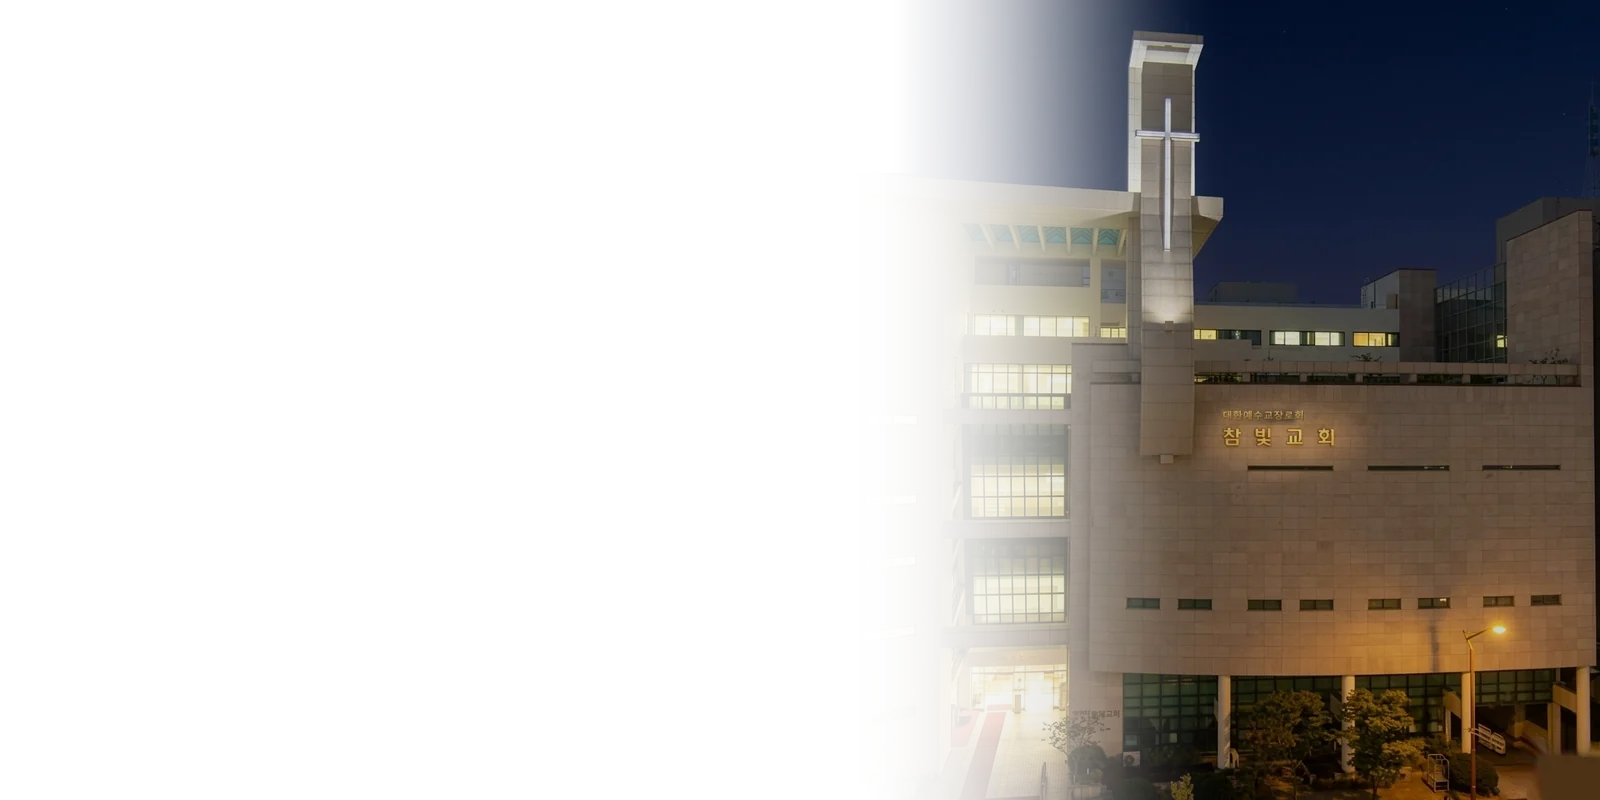
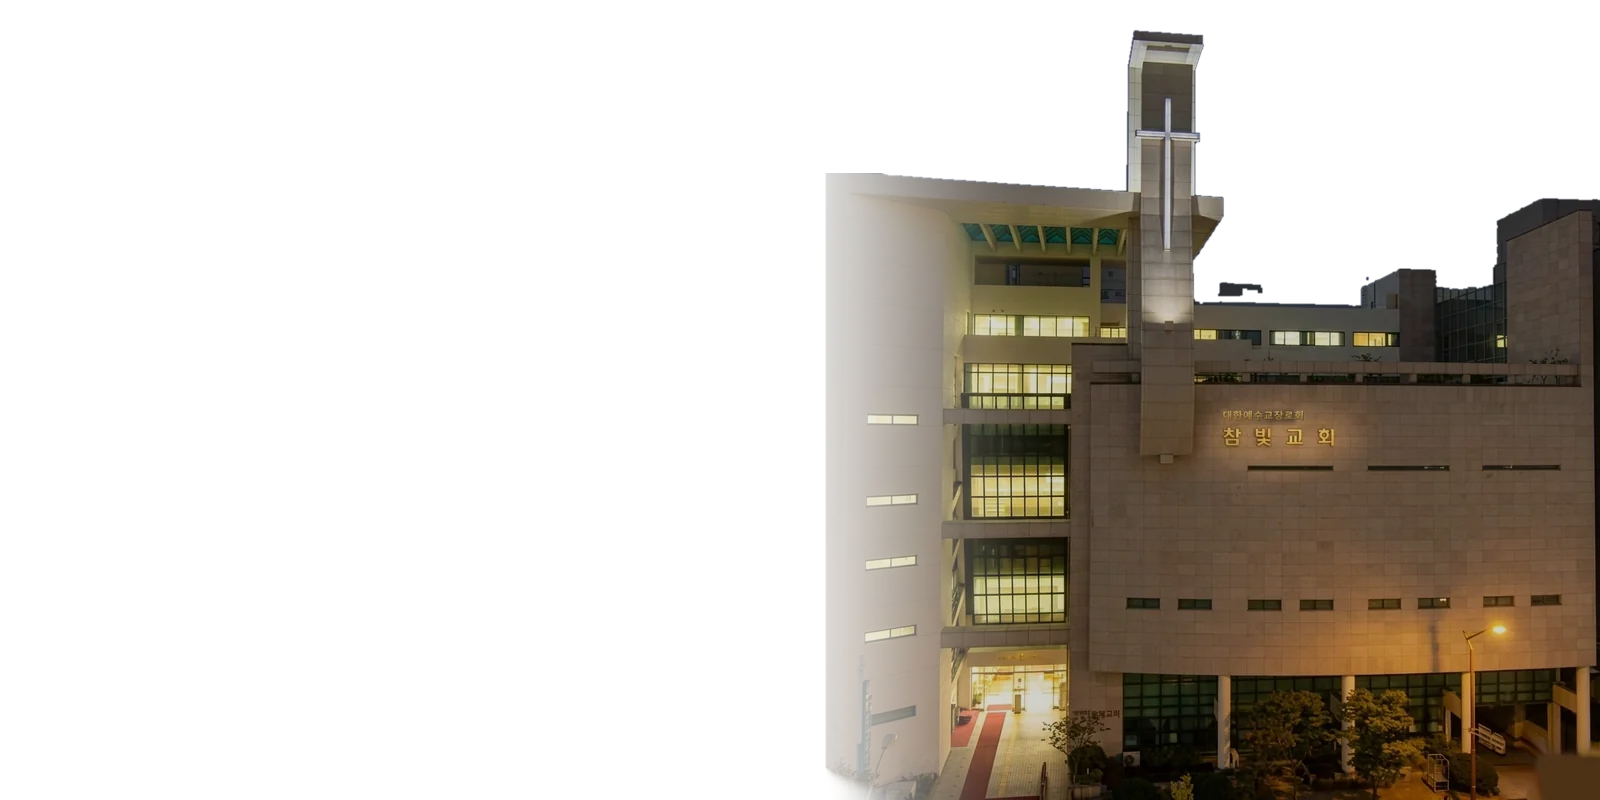
진짜마지막

Changed region(s): [[0.5, 0.0, 1.0, 1.0]]

diff --git a/frontend/src/pages/Visit/Visit.css b/frontend/src/pages/Visit/Visit.css
@@ -80,8 +80,9 @@
   --hero-cta-bg-hover: rgba(255, 255, 255, 0.9);
   --hero-cta-border: rgba(49, 130, 246, 0.55);
   position: relative;
-  aspect-ratio: 20 / 23;
-  min-height: 330px;
+  /* 모바일 높이 — 20:23 은 너무 높다는 피드백(2026-09-03) → 20:19. 글자 블록(~170px) + 건물이 십자가부터 온전히 */
+  aspect-ratio: 20 / 19;
+  min-height: 320px;
   padding: 26px 22px 22px;
   display: flex;
   flex-direction: column;
@@ -161,14 +162,15 @@
   display: block;
 }
 
-/* 교회 사진 — 모바일은 무대 아래 2/3 에 오른쪽·아래 기준으로 앉히고, 위쪽은 짧게 녹여 배경과 잇는다
-   (사진 하늘이 불투명한 오른쪽 위에서 배경과 만나는 가로선을 지운다) */
+/* 교회 사진 — 자산은 하늘까지 떼어낸 건물 컷아웃(RGBA)이라 배경과 만나는 가로선이 없다.
+   모바일: 무대 아래 61% 높이에 앉혀 십자가 꼭대기가 글자 블록 바로 아래서 시작. 왼쪽 빈 하늘만 살짝 잘라내
+   (object-position 82%) 왼쪽 동이 카드 안쪽으로 더 들어온다 */
 .visit-hero-photo {
   position: absolute;
   left: 0;
   right: 0;
   bottom: 0;
-  top: 33%;
+  height: 61%;
   pointer-events: none;
 }
 .visit-hero-img {
@@ -176,10 +178,7 @@
   width: 100%;
   height: 100%;
   object-fit: cover;
-  object-position: right bottom;
-  /* 세로 마스크는 짧게 — 길면 십자가 탑 꼭대기가 지워진다 */
-  -webkit-mask-image: linear-gradient(to bottom, transparent 0, #000 13%);
-  mask-image: linear-gradient(to bottom, transparent 0, #000 13%);
+  object-position: 82% bottom;
 }
 
 /* 글자 — 무대 왼쪽, 위에서부터(모바일) / 세로 중앙(lg) */
@@ -1219,14 +1218,12 @@
     justify-content: center;
   }
 
-  /* 사진은 무대 전체(자산도 2:1) — 세로 마스크 없이 알파 램프만으로 배경에서 스며 나온다 */
+  /* 사진은 무대 전체(자산도 2:1) — 알파 램프만으로 배경에서 스며 나온다 */
   .visit-hero-photo {
-    top: 0;
+    height: 100%;
   }
   .visit-hero-img {
     object-position: right center;
-    -webkit-mask-image: none;
-    mask-image: none;
   }
 
   .visit-hero-branch {

diff --git a/frontend/scripts/build_visit_hero.py b/frontend/scripts/build_visit_hero.py
@@ -39,9 +39,10 @@ W, H = 1600, 800
 # 자산은 RGBA: 교회만 불투명, 왼쪽 동 벽에서 FADE 폭만큼 알파가 0→1 로 오르고 그 왼쪽은 완전 투명.
 # 배경(남색/하늘 그라데이션·글로우·링)은 전부 CSS(Visit.css .visit-hero-stage)가 그린다 →
 # 사진 하늘을 합성해 붙이던 v2 의 '색 안 맞는 이음새' 문제가 구조적으로 사라진다.
-FADE = (-20, 400)              # 알파 램프 시작/끝(교회 왼쪽 모서리 기준 px). 십자가 탑(x0+305~375)까지 걸쳐 길게 —
-                               # 짧으면(v3 초판 250px) '반반으로 잘린' 경계로 읽힌다는 피드백(2026-09-03)
-FADE_GAMMA = 1.8               # 램프 곡선: 왼쪽 끝은 거의 투명하게 오래 머물다 오른쪽으로 갈수록 점점 또렷하게
+FADE = (-100, 240)             # 알파 램프 시작/끝(교회 왼쪽 모서리 기준 px). 왼쪽 동(가는 창 있는 흰 벽면)이
+                               # 왼쪽 끝 ~0.2 에서 시작해 동 절반쯤(120px)에 0.7, 탑 전에 1 — 벽면·창이 또렷히 읽혀야 한다
+                               # (2026-09-03: 하늘을 컷아웃한 뒤로는 램프가 짧아도 '반반 띠'가 안 생긴다. 예전 띠는 하늘 페이드 탓)
+FADE_GAMMA = 1.0               # 램프 곡선(1=smoothstep 그대로)
 NIGHT_DIM = 0.82               # 밤 사진은 살짝 눌러 남색 배경에 앉힌다(불 켜진 창의 대비는 유지)
 BRANCH_BOX = (0, 0, 880, 480)  # 나뭇가지 실루엣 별도 레이어(branch-night.webp) 크롭 — 카드 왼쪽 위에 CSS 로 얹는다
 WING_X = 8                     # 왼쪽 동 벽의 실제 모서리(원본 x). 그 왼쪽은 이웃 건물
@@ -87,6 +88,32 @@ def remove_objects(im, polys):
     dst = np.zeros_like(bgr)
     cv2.xphoto.inpaint(bgr, keep, dst, cv2.xphoto.INPAINT_FSR_BEST)
     return Image.fromarray(cv2.cvtColor(dst, cv2.COLOR_BGR2RGB))
+
+
+def sky_mask(im, key):
+    """사진에서 '하늘'(위쪽 테두리에 이어진 파란/흰 구름 또는 밤 남색 영역) 마스크(0~1).
+    색 규칙으로 후보를 뽑고, 위쪽 테두리에 연결된 성분만 남긴다(창문 유리·캐노피처럼 건물 안에 갇힌 파랑은 제외).
+    2026-09-03: 사진 하늘을 남기면 CSS 배경과 만나는 가로선이 생겨 부자연스럽다는 피드백 → 건물만 남긴다."""
+    a = np.asarray(im).astype(np.int32)
+    r, g, b = a[..., 0], a[..., 1], a[..., 2]
+    lum = (r * 299 + g * 587 + b * 114) // 1000
+    if key == 'day':
+        blue = (b - r > 12) & (b > g + 6)
+        cloud = (lum > 222) & (b >= r - 4) & (b >= g - 4)
+        cand = blue | cloud
+    else:
+        # 밤: 아주 어둡고 확실히 파란 것만 — 그늘진 오른쪽 부속 건물(회색, lum 60~90)이 하늘로 새면 구멍이 난다
+        cand = (lum < 58) & (b - r > 8) & (b >= g)
+    m = cand.astype(np.uint8)
+    if cv2 is not None:
+        m = cv2.morphologyEx(m, cv2.MORPH_OPEN, np.ones((3, 3), np.uint8))
+        n, lab = cv2.connectedComponents(m, connectivity=4)
+        top_labels = set(np.unique(lab[0:3, :])) - {0}
+        keep = np.isin(lab, list(top_labels))
+        m = keep.astype(np.uint8)
+        m = cv2.morphologyEx(m, cv2.MORPH_CLOSE, np.ones((3, 3), np.uint8))
+    sky = np.asarray(Image.fromarray(m * 255).filter(ImageFilter.GaussianBlur(0.8))).astype(np.float32) / 255
+    return sky
 
 
 def foliage_mask(w, h, seed=0):
@@ -237,11 +264,13 @@ for key, path in SRC.items():
     church = im.crop((WING_X, 0, im.width, im.height))
     cw = round(church.width * scale)
     ch = np.asarray(church.resize((cw, H), Image.LANCZOS)).astype(np.float32)
+    sky = np.asarray(Image.fromarray((sky_mask(im, key) * 255).astype(np.uint8)).crop((WING_X, 0, im.width, im.height))
+                     .resize((cw, H), Image.LANCZOS)).astype(np.float32) / 255
     if key == 'night':
         ch = ch * NIGHT_DIM
     x0 = W - cw
     yy, xx = np.mgrid[0:H, 0:cw]
-    alpha = smoothstep(xx / EDGE_SOFT)
+    alpha = smoothstep(xx / EDGE_SOFT) * (1 - sky)   # 하늘은 투명 — 배경은 CSS 가 그린다
     # 지붕 위 이웃 건물 지우기(투명으로)
     nx = (NEIGH[0] - WING_X) * scale
     neigh = (1 - smoothstep((xx - nx) / 40)) * (1 - smoothstep((yy - (roof_c - 1)) / 1.0))
